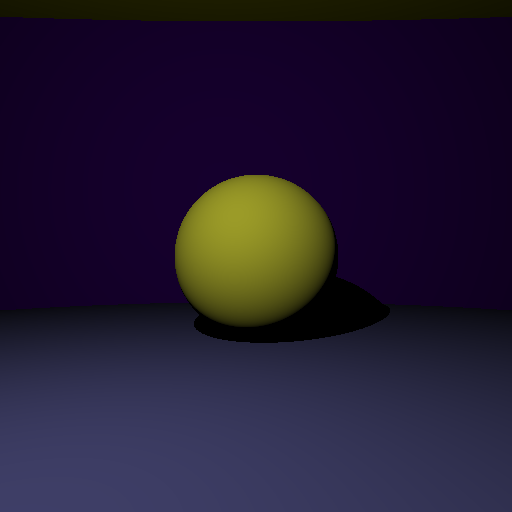
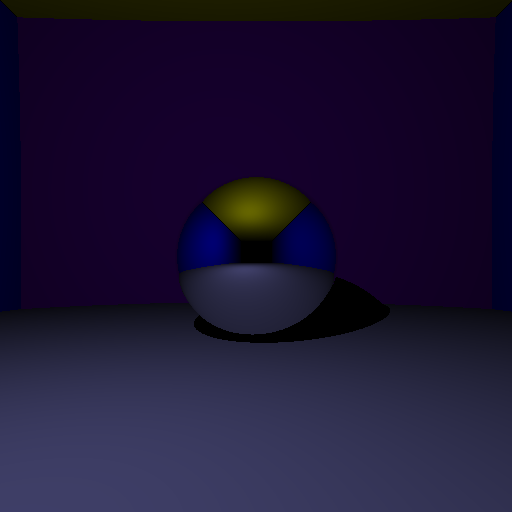
surfaces mirroir

Changed region(s): [[0.3438, 0.3438, 0.6875, 0.6562], [0.9688, 0.0, 1.0, 0.0312], [0.0, 0.0, 0.0312, 0.0312]]

diff --git a/Raytracing/Scene.cpp b/Raytracing/Scene.cpp
@@ -26,7 +26,7 @@ bool Scene::intersect(const Ray& r, Vector& P, Vector& N, int& idx)
 	return has_intersect;
 }
 
-Vector Scene::getColor(const Ray& r) {
+Vector Scene::getColor(const Ray& r, int numRebound) {
 	Vector P, N;
 	int idx;
 
@@ -38,19 +38,29 @@ Vector Scene::getColor(const Ray& r) {
 
 	Vector P_prime, N_prime, I;
 	Ray r_prime(P + 1e-12 * N, PL);
-	
+
 	int idx_prime;
 	bool has_intersect_prime = intersect(r_prime, P_prime, N_prime, idx_prime);
-	if (has_intersect_prime) 
+	if (has_intersect)
 	{
-		if (distlight < (P - P_prime).getNorm())
+		if (spheres[idx]->is_mirror() && numRebound > 0)
+		{
+			Vector R = r.u - 2 * dot(r.u, N) * N;
+			Ray rray(P + 1e-10 * N, R);
+			return getColor(rray, numRebound - 1);
+		}
+
+		if (has_intersect_prime)
+		{
+			if (distlight < (P - P_prime).getNorm())
+			{
+				I = spheres[idx]->intensity(r, P, N, light, intensiteL);
+			}
+		}
+		else
 		{
 			I = spheres[idx]->intensity(r, P, N, light, intensiteL);
 		}
-	}
-	else
-	{
-		I = spheres[idx]->intensity(r, P, N, light, intensiteL);
 	}
 	return I;
 }

diff --git a/Raytracing/Raytracing.cpp b/Raytracing/Raytracing.cpp
@@ -23,7 +23,7 @@ int main() {
 
 	const Vector O;
 	const Vector rho(1., 1., 0.05);
-	Sphere s(O, 10., rho);
+	Sphere s(O, 10., rho, true);
 
 	Sphere splafond(Vector(0., 1000., 0.), 940, Vector(0.5, 0.5, 0.));
 	Sphere smurfond(Vector(0., 0., -1000.), 940, Vector(0.1, 0., 0.5));
@@ -31,7 +31,7 @@ int main() {
 	Sphere smur1(Vector(-1000., 0., 0.), 940, Vector(0., 0., 1.));
 	Sphere smur2(Vector(1000., 0., 0.), 940, Vector(0., 0., 1.));
 
-	std::vector<Sphere*> spheres = {&s, &splafond, &smurfond, &ssol};
+	std::vector<Sphere*> spheres = {&s, &splafond, &smurfond, &ssol, &smur1, &smur2};
 	const Vector C(0, 0, 55);  // caméra
 	double fov = M_PI / 3;
 	const Vector L(-10, 20, 40);	// source lumineuse
@@ -46,7 +46,8 @@ int main() {
 			u.normalize();
 			Ray r(C, u);
 
-			Vector I = scene.getColor(r);
+			int numRebound = 5;
+			Vector I = scene.getColor(r, numRebound);
 
 			image[(i * W + j) * 3 + 0] = std::min(pow(I[0], 0.45), 255.);
 			image[(i * W + j) * 3 + 1] = std::min(pow(I[1], 0.45), 255.);

diff --git a/Raytracing/Scene.h b/Raytracing/Scene.h
@@ -16,7 +16,7 @@ public:
 	Scene(std::vector<Sphere*> spheres, Vector Camera, double fov, Vector Light, double intensiteL);
 
 	bool intersect(const Ray& r, Vector& P, Vector& N, int& idx);
-	Vector getColor(const Ray& r);
+	Vector getColor(const Ray& r, int numRebound);
 
 
 	Sphere operator[](int i) const;
